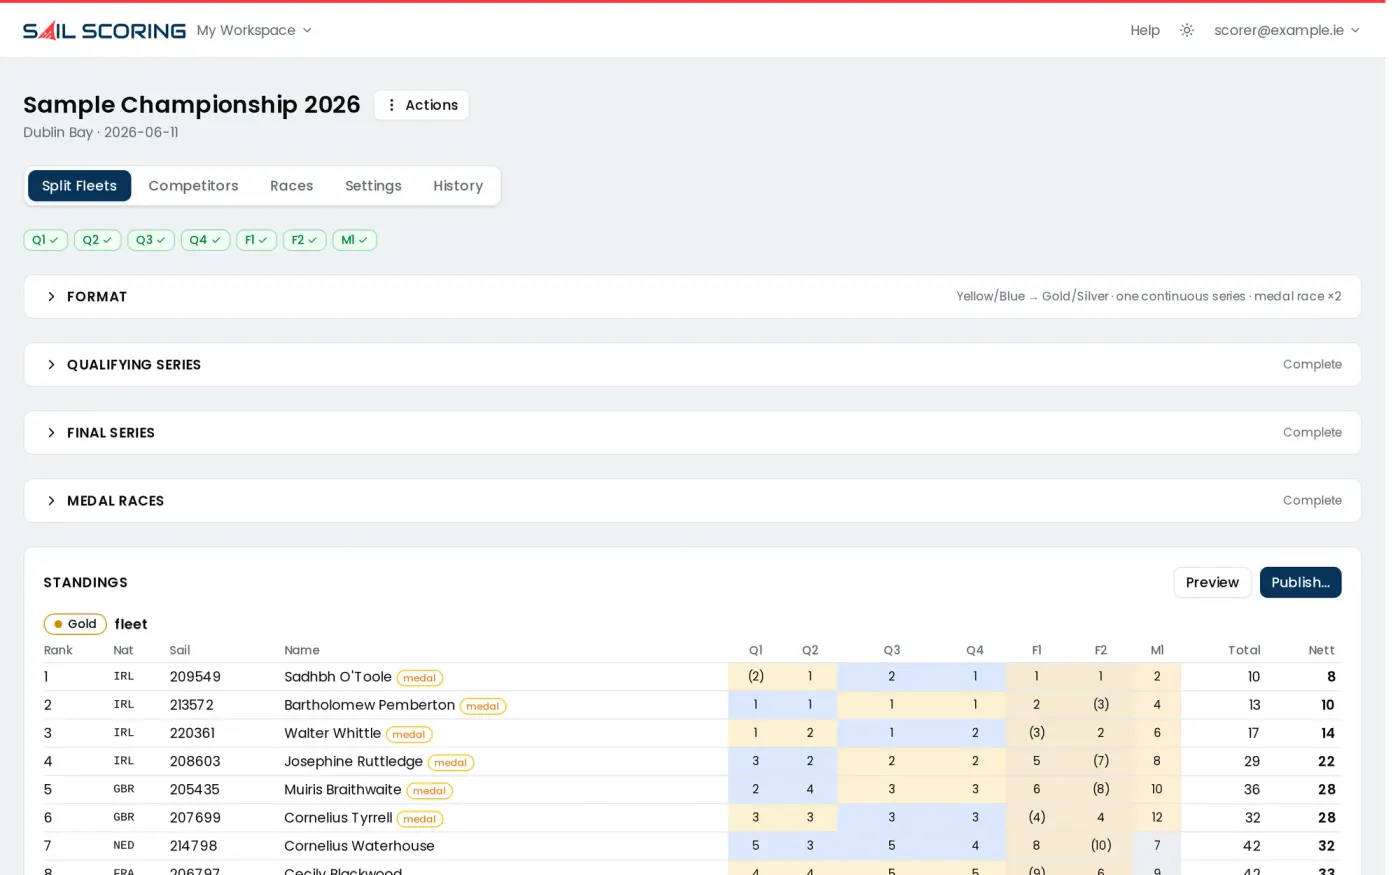
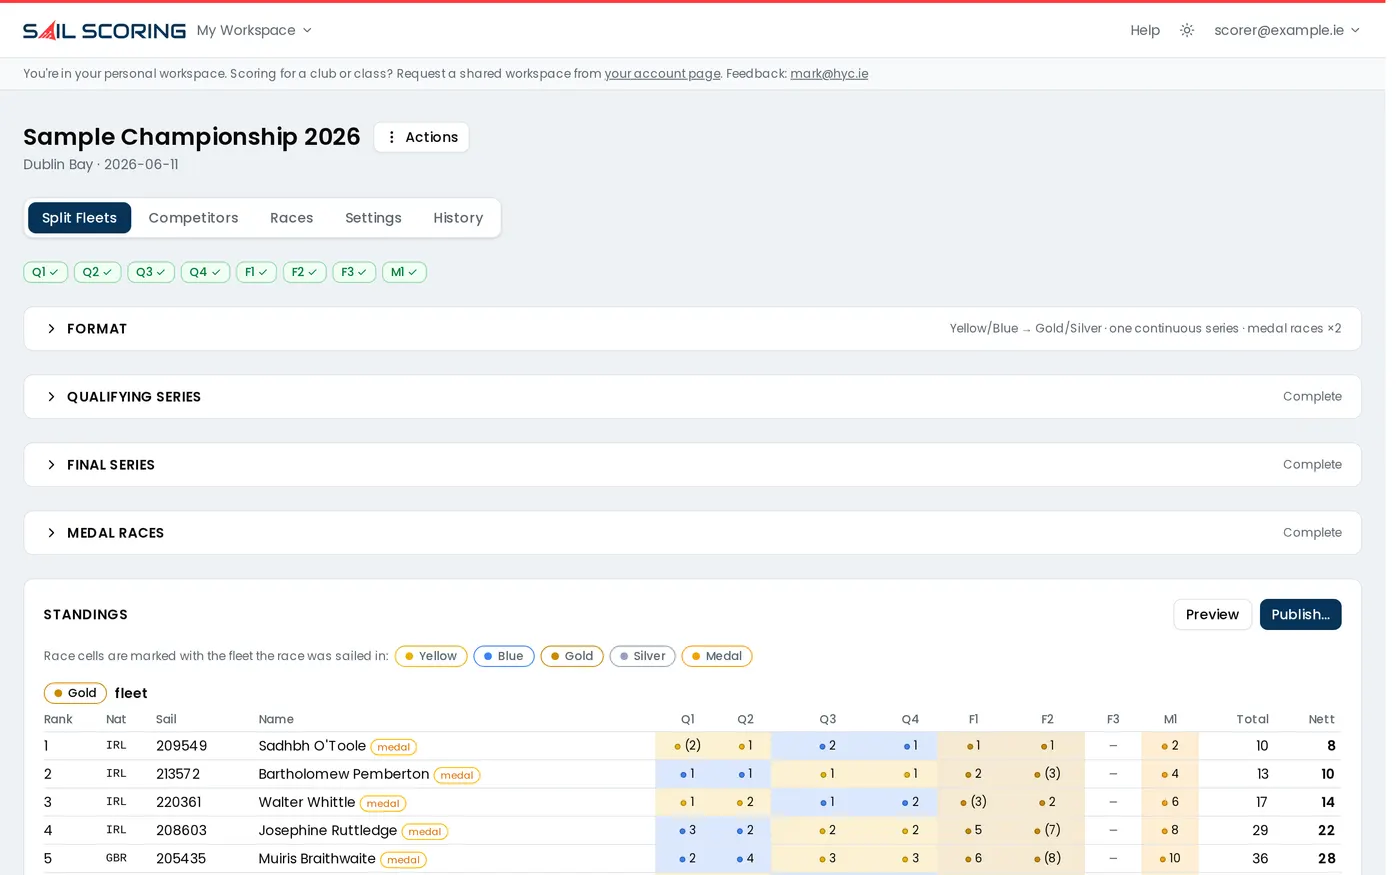
feat(shots): capture the split-fleet tab in both vocabularies
The help section switches its picture with the vocabulary it is read in,
so the rig captures the sample championship's tab a second time in the
2026 ILCA wording, flipping the Format editor's picker and putting it back
as seeded. The marketing site shows one view of the feature, so the second
capture is written for the help docs only, through a new `helpOnly` option
on the shot writer.

Issue #481

diff --git a/scripts/feature-shots.ts b/scripts/feature-shots.ts
@@ -64,6 +64,7 @@ import sharp from 'sharp';
 
 import * as schema from '../lib/db/schema';
 import { type FeatureKey } from '../lib/features';
+import { VOCABULARIES, capitaliseStage, type VocabularyKey } from '../lib/split-fleets';
 import { setOrgFeature } from './provision-org';
 
 // ── Config ───────────────────────────────────────────────────────────────────
@@ -106,7 +107,16 @@ interface ShotContext {
   anon: BrowserContext;
   /** Resolved id of SERIES_NAME, fetched lazily on first use. */
   seriesId(): Promise<string>;
-  shot(name: string, opts?: { fullPage?: boolean; page?: Page }): Promise<void>;
+  shot(
+    name: string,
+    opts?: {
+      fullPage?: boolean;
+      page?: Page;
+      /** Written for the help docs only — a capture the marketing site has
+       *  no use for, such as a second view of a feature it already shows. */
+      helpOnly?: boolean;
+    },
+  ): Promise<void>;
 }
 
 interface Shot {
@@ -1239,6 +1249,25 @@ const SHOTS: Shot[] = [
       await page.getByRole('navigation').getByRole('link', { name: 'Split Fleets' }).click();
       await settle(page);
       await shot('split-fleets.png');
+
+      // The help section switches its picture with the vocabulary it is
+      // read in, so the tab is captured once more in the other wording. The
+      // Format editor saves on change; the tab's stage headings confirm the
+      // words have landed before the shot, and the sample is put back as
+      // seeded so nothing downstream sees it changed. The marketing site
+      // shows one view, so this capture is for the help docs alone.
+      const format = page.getByRole('button', { name: /^Format/ });
+      const setVocabulary = async (key: VocabularyKey) => {
+        await format.click();
+        await page.locator('#sf-vocabulary').selectOption(key);
+        const stageName = capitaliseStage(VOCABULARIES[key].stages.qualifying.name);
+        await page.getByRole('button', { name: new RegExp(`^${stageName}`) }).waitFor();
+        await format.click();
+        await settle(page);
+      };
+      await setVocabulary('qualification-final');
+      await shot('split-fleets-qualification-final.png', { helpOnly: true });
+      await setVocabulary('opening-medal');
     },
   },
   {
@@ -1873,10 +1902,12 @@ async function main() {
         const pngPath = join(PNG_OUT, name);
         await target.screenshot({ path: pngPath, fullPage: opts.fullPage ?? false });
         const webpName = name.replace(/\.png$/, '.webp');
-        await sharp(pngPath)
-          .resize({ width: WEBP_WIDTH })
-          .webp({ quality: 82 })
-          .toFile(join(WEBP_OUT, webpName));
+        if (!opts.helpOnly) {
+          await sharp(pngPath)
+            .resize({ width: WEBP_WIDTH })
+            .webp({ quality: 82 })
+            .toFile(join(WEBP_OUT, webpName));
+        }
         await sharp(pngPath)
           .resize({ width: 1400 })
           .webp({ quality: 78 })
